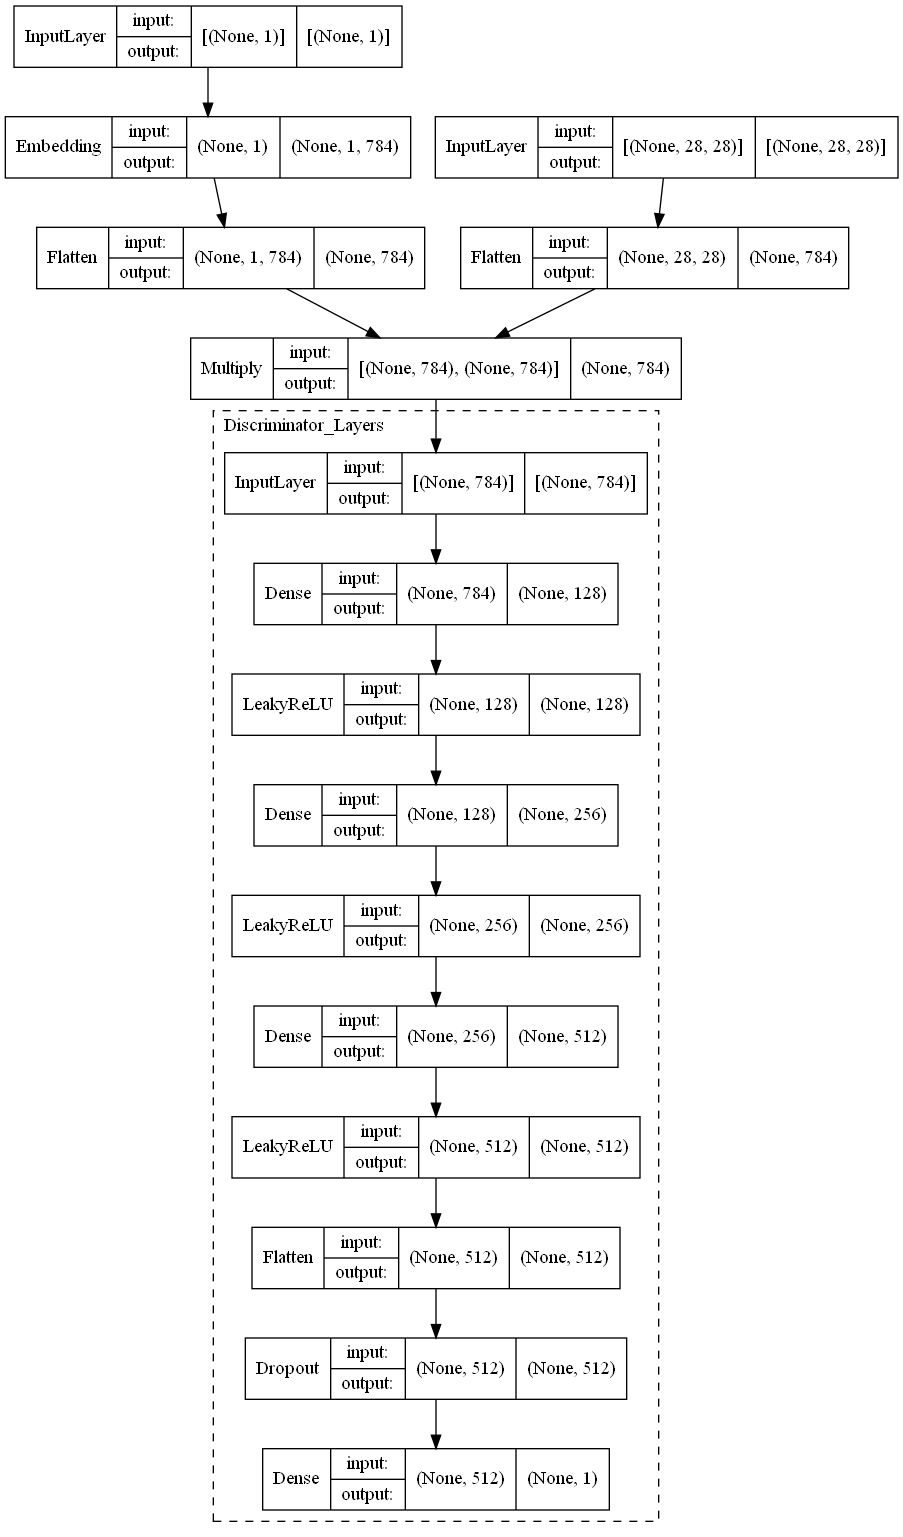
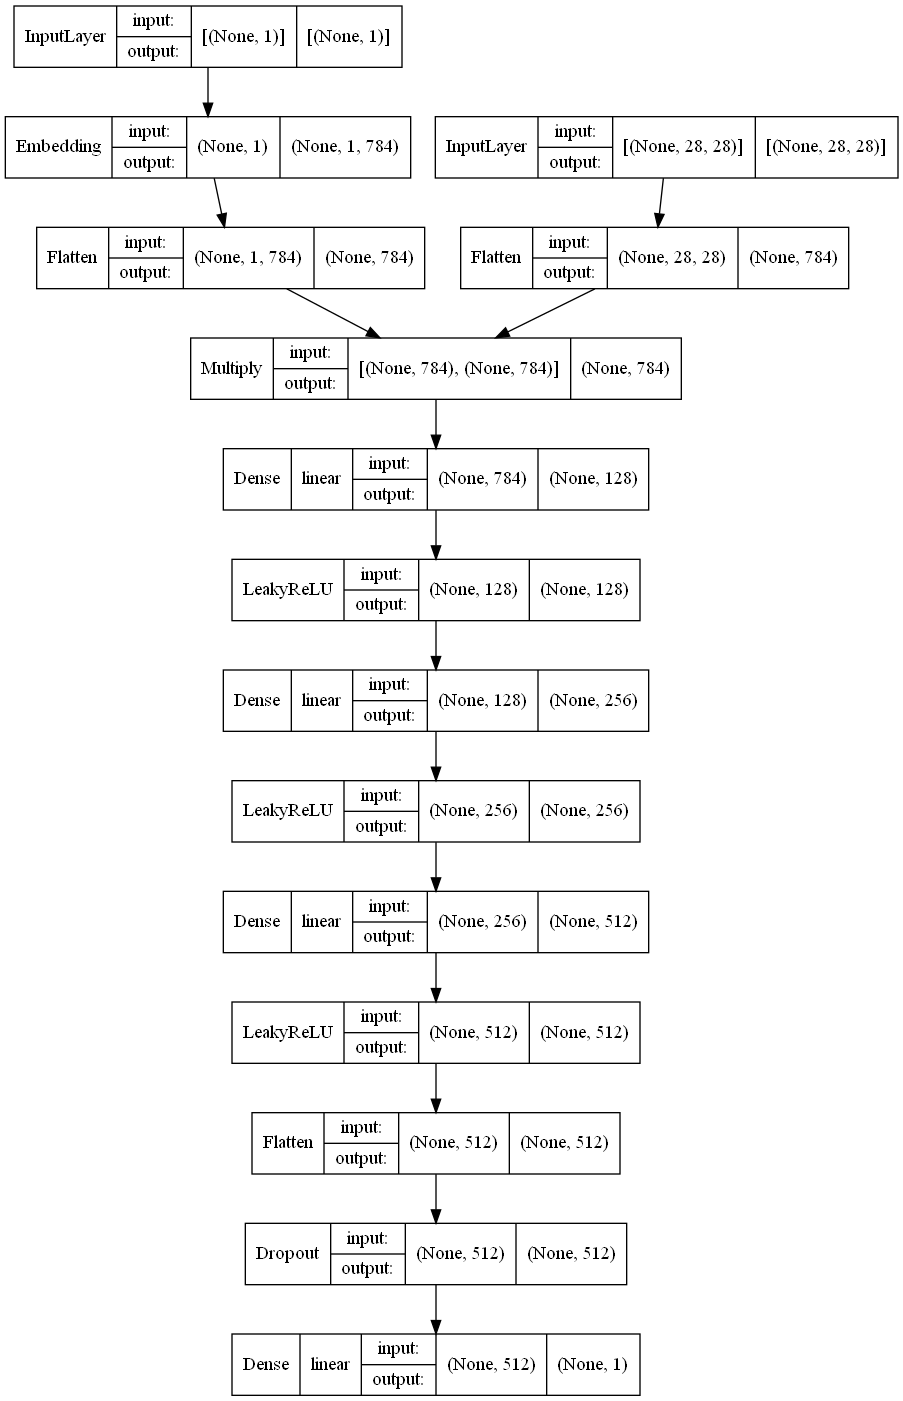
remove border around architecture images

Changed region(s): [[0.0, 0.0, 0.9922, 1.0], [0.2171, 0.6445, 0.2481, 0.6752], [0.2171, 0.4911, 0.2481, 0.5218]]

diff --git a/python/code/models/densegen_dcdis/generator.py b/python/code/models/densegen_dcdis/generator.py
@@ -1,4 +1,4 @@
-from keras import Sequential, layers, models
+from keras import models
 from keras.layers import *
 from keras.models import Model
 from keras.initializers.initializers_v2 import RandomNormal
@@ -8,43 +8,31 @@ import sys
 sys.path.append(".")
 
 def make_generator_model() -> Model:
-    from constants import NUM_CLASSES, LATENT_DIM
+    from constants import NUM_CLASSES, LATENT_DIM, IMG_DIM, LATENT_DIM, IMG_SIZE
 
-    input_label = layers.Input(shape=(1,), dtype='int32')
-    in_label = layers.Embedding(NUM_CLASSES, LATENT_DIM)(input_label)
-    in_label = layers.Flatten()(in_label)
+    input_label = Input(shape=(1,), dtype='int32')
+    in_label = Embedding(NUM_CLASSES, LATENT_DIM)(input_label)
+    in_label = Flatten()(in_label)
 
-    input_latent = layers.Input(shape=(LATENT_DIM,))
+    input_latent = Input(shape=(LATENT_DIM,))
 
-    input_generator = layers.multiply([input_latent, in_label])
+    merge = multiply([input_latent, in_label])
 
-    image = generator()(input_generator)
+    merge = Dense(128, input_shape=(LATENT_DIM,), kernel_initializer=RandomNormal(stddev=0.02))(merge)
+    LeakyReLU(alpha=0.2)
+    BatchNormalization(momentum=0.8)
+
+    merge = Dense(256)(merge)
+    merge = LeakyReLU(alpha=0.2)(merge)
+    merge = BatchNormalization(momentum=0.8)(merge)
+
+    merge = Dense(256)(merge)
+    merge = LeakyReLU(alpha=0.2)(merge)
+    merge = BatchNormalization(momentum=0.8)(merge)
+
+    merge = Dense(IMG_DIM, activation='tanh')(merge)
+    merge = Reshape((IMG_SIZE, IMG_SIZE))(merge)
     
-    model = models.Model([input_latent, input_label], image, name="Generator_Inputs")
-
-    return model
-
-def generator() -> Model:
-    from constants import IMG_DIM, LATENT_DIM, IMG_SIZE
-
-    model = Sequential([
-        # input
-        Dense(128, input_shape=(LATENT_DIM,), kernel_initializer=RandomNormal(stddev=0.02), name="input"),
-        LeakyReLU(alpha=0.2),
-        BatchNormalization(momentum=0.8),
-
-        # hidden layer 1
-        Dense(256, name="hidden1"),
-        LeakyReLU(alpha=0.2),
-        BatchNormalization(momentum=0.8),
-
-        # hidden layer 2
-        Dense(256, name="hidden2"),
-        LeakyReLU(alpha=0.2),
-        BatchNormalization(momentum=0.8),
-
-        Dense(IMG_DIM, activation='tanh', name="output"),
-        Reshape((IMG_SIZE, IMG_SIZE)),
-    ], name="Generator_Layers")
+    model = models.Model([input_latent, input_label], merge, name="Generator_Inputs")
 
     return model

diff --git a/python/code/models/dcgen_densedis/discriminator.py b/python/code/models/dcgen_densedis/discriminator.py
@@ -1,54 +1,39 @@
-from keras import Sequential
 from keras.layers import *
 from keras.models import Model
-from keras.initializers.initializers_v2 import GlorotNormal
 import sys
 
 # Adds higher directory to python modules path.
 sys.path.append(".")
 
 def make_discriminator_model() -> Model:
-    from constants import NUM_CLASSES, IMG_DIM, IMG_SIZE
-    initializer = GlorotNormal()
+    from constants import NUM_CLASSES, IMG_DIM, IMG_SIZE, DROPOUT
 
     input_label = Input(shape=(1,), dtype='int32')
-    in_label = Embedding(NUM_CLASSES, IMG_DIM, embeddings_initializer=initializer)(input_label)
+    in_label = Embedding(NUM_CLASSES, IMG_DIM)(input_label)
     in_label = Flatten()(in_label)
 
     input_img = Input(shape=(IMG_SIZE, IMG_SIZE))
     in_img = Flatten()(input_img)
 
-    input_discriminator = multiply([in_img, in_label])
+    merge = multiply([in_img, in_label])
 
-    validity = discriminator()(input_discriminator)
+    merge = Dense(128, input_shape=(IMG_DIM,))(merge)
+    merge = LeakyReLU(alpha=0.2)(merge)
 
-    model = Model([input_img, input_label], validity, name="Discriminator_Input")
+    # hidden layer 1
+    merge = Dense(256)(merge)
+    merge = LeakyReLU(alpha=0.2)(merge)
 
-    return model
+    # hidden layer 2
+    merge = Dense(512)(merge)
+    merge = LeakyReLU(alpha=0.2)(merge)
 
+    merge = Flatten()(merge)
+    merge = Dropout(DROPOUT)(merge)
 
-def discriminator() -> Model:
-    from constants import IMG_DIM, DROPOUT, EMBEDDING_SIZE
-    initializer = GlorotNormal()
+    # output
+    merge = Dense(1)(merge)
 
-    model = Sequential([
-        # input
-        Dense(128, input_shape=(IMG_DIM,), kernel_initializer=initializer, name="input"),
-        LeakyReLU(alpha=0.2),
-
-        # hidden layer 1
-        Dense(256, name="hidden1", kernel_initializer=initializer),
-        LeakyReLU(alpha=0.2),
-
-        # hidden layer 2
-        Dense(512, name="hidden2", kernel_initializer=initializer),
-        LeakyReLU(alpha=0.2),
-
-        Flatten(),
-        Dropout(DROPOUT),
-
-        # output
-        Dense(1, name="output", kernel_initializer=initializer),
-    ], name="Discriminator_Layers")
+    model = Model([input_img, input_label], merge, name="Discriminator_Input")
 
     return model
